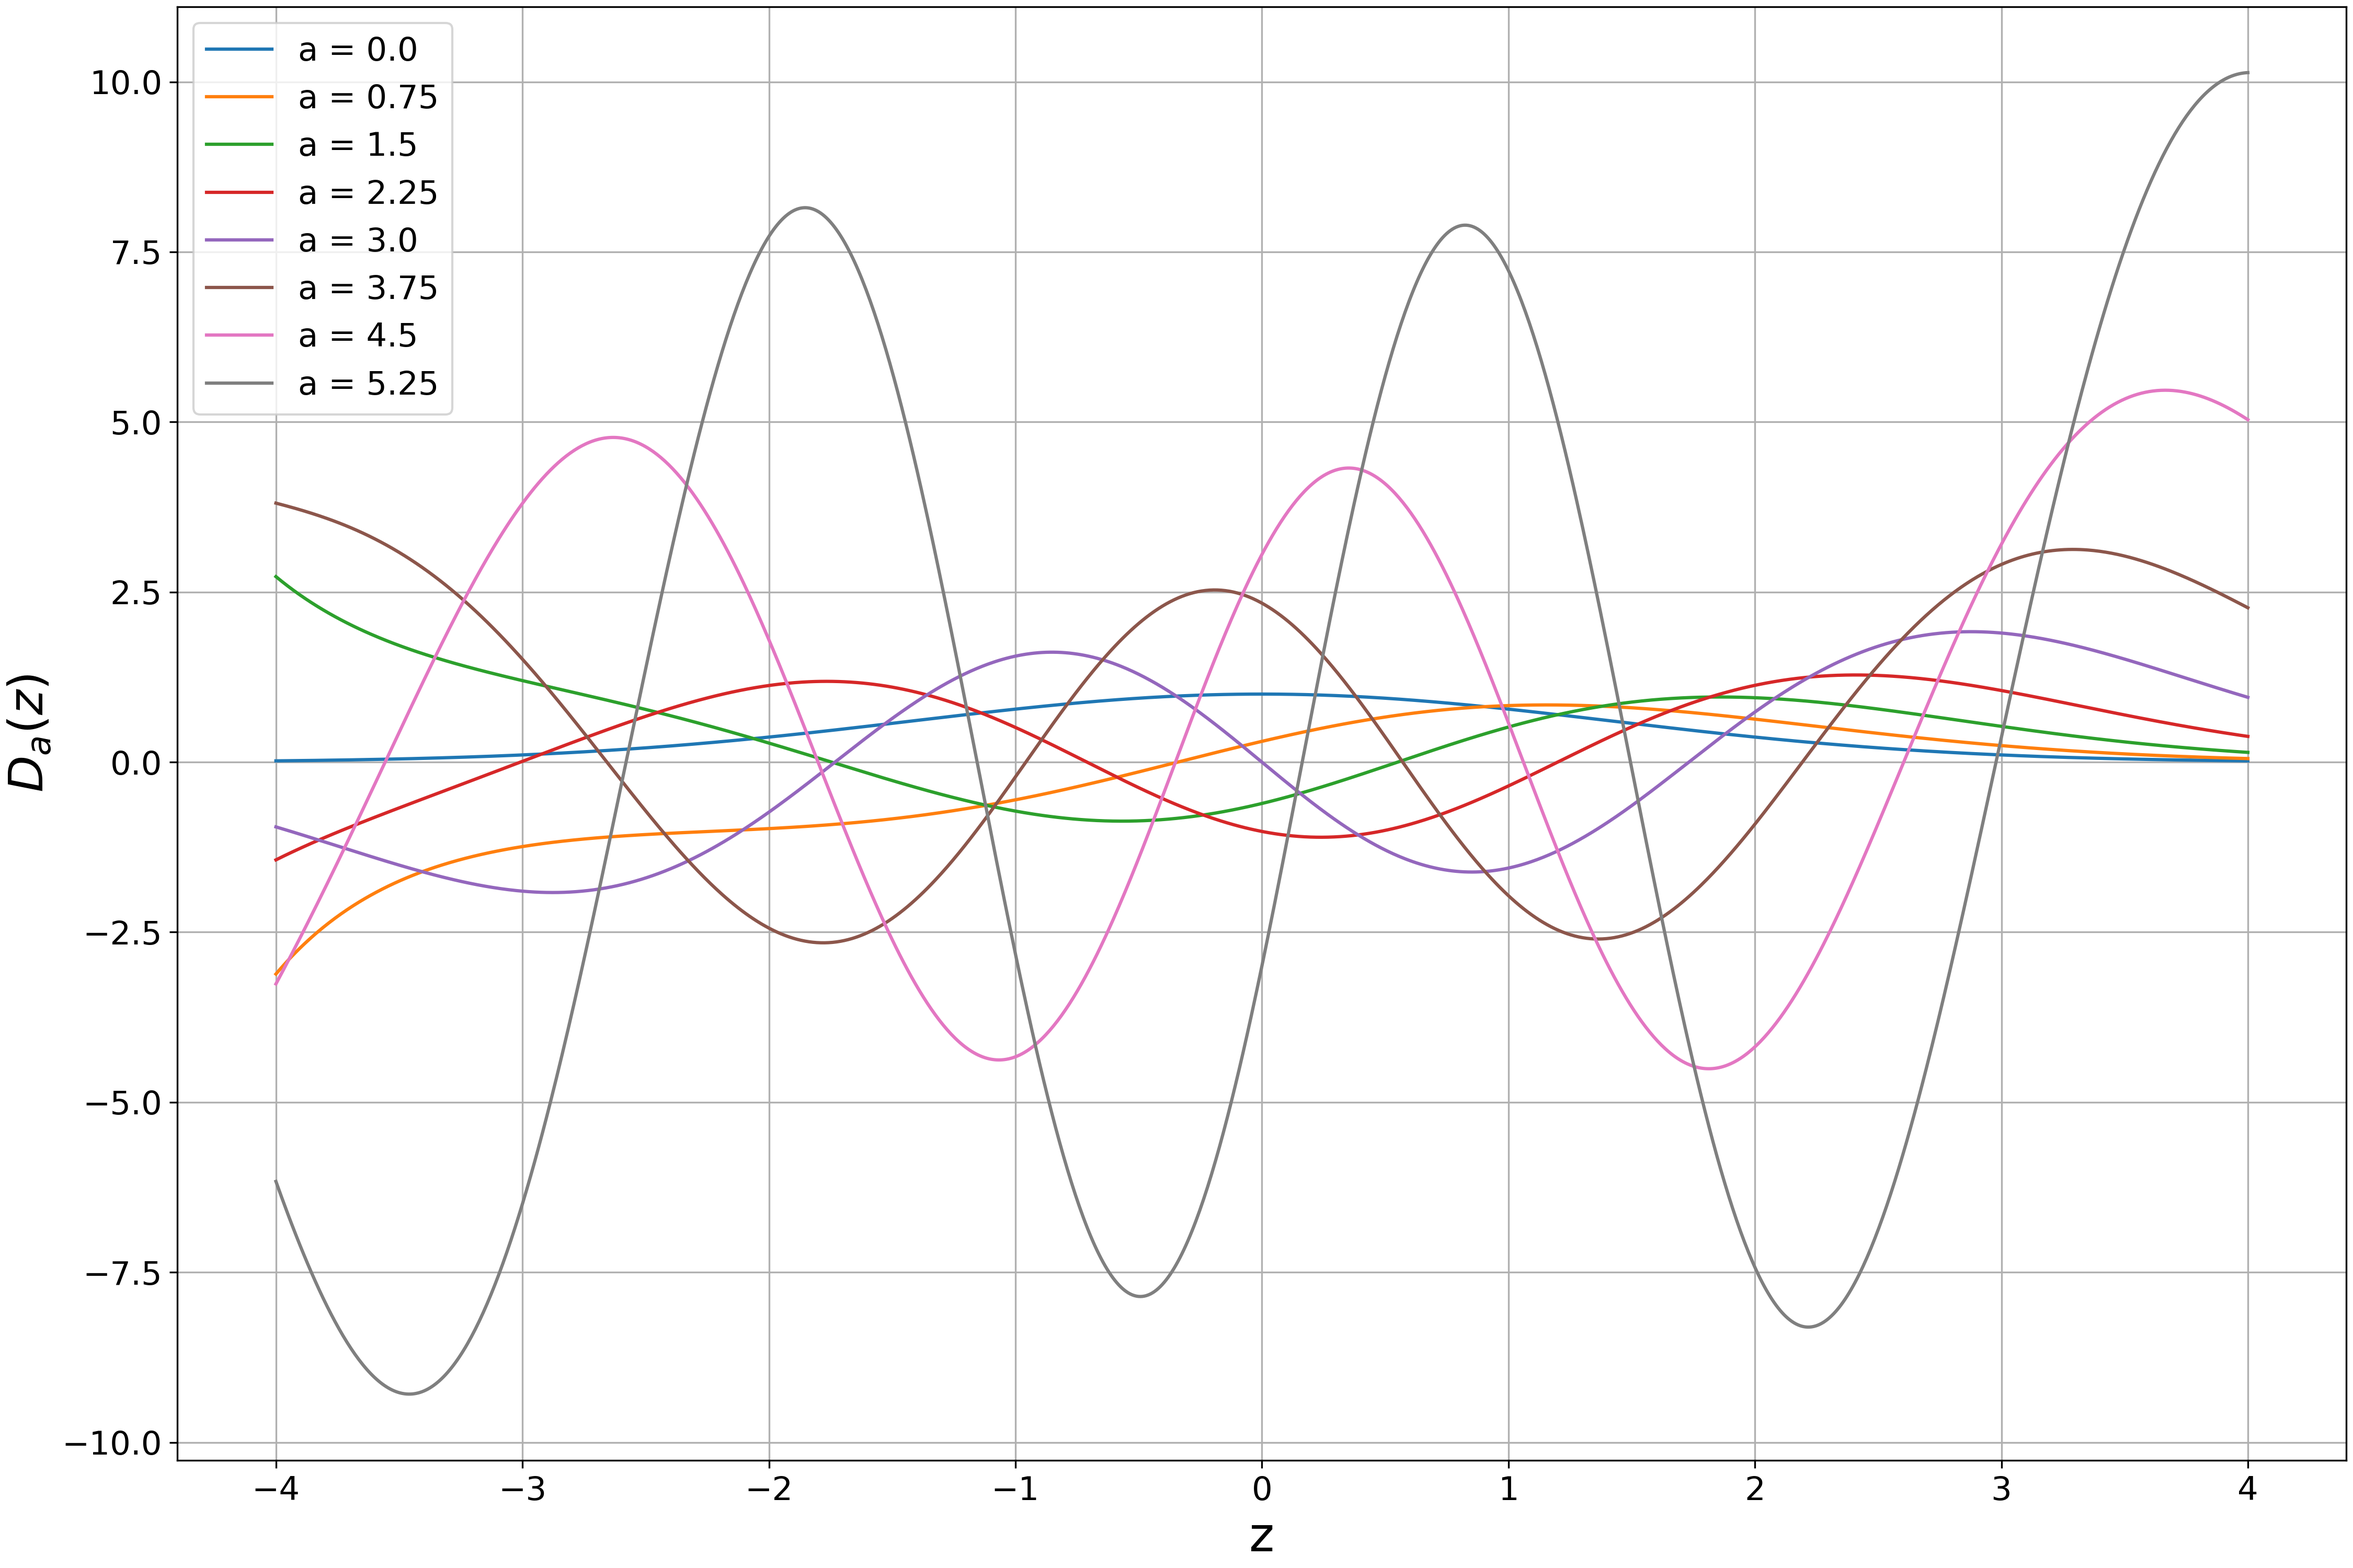
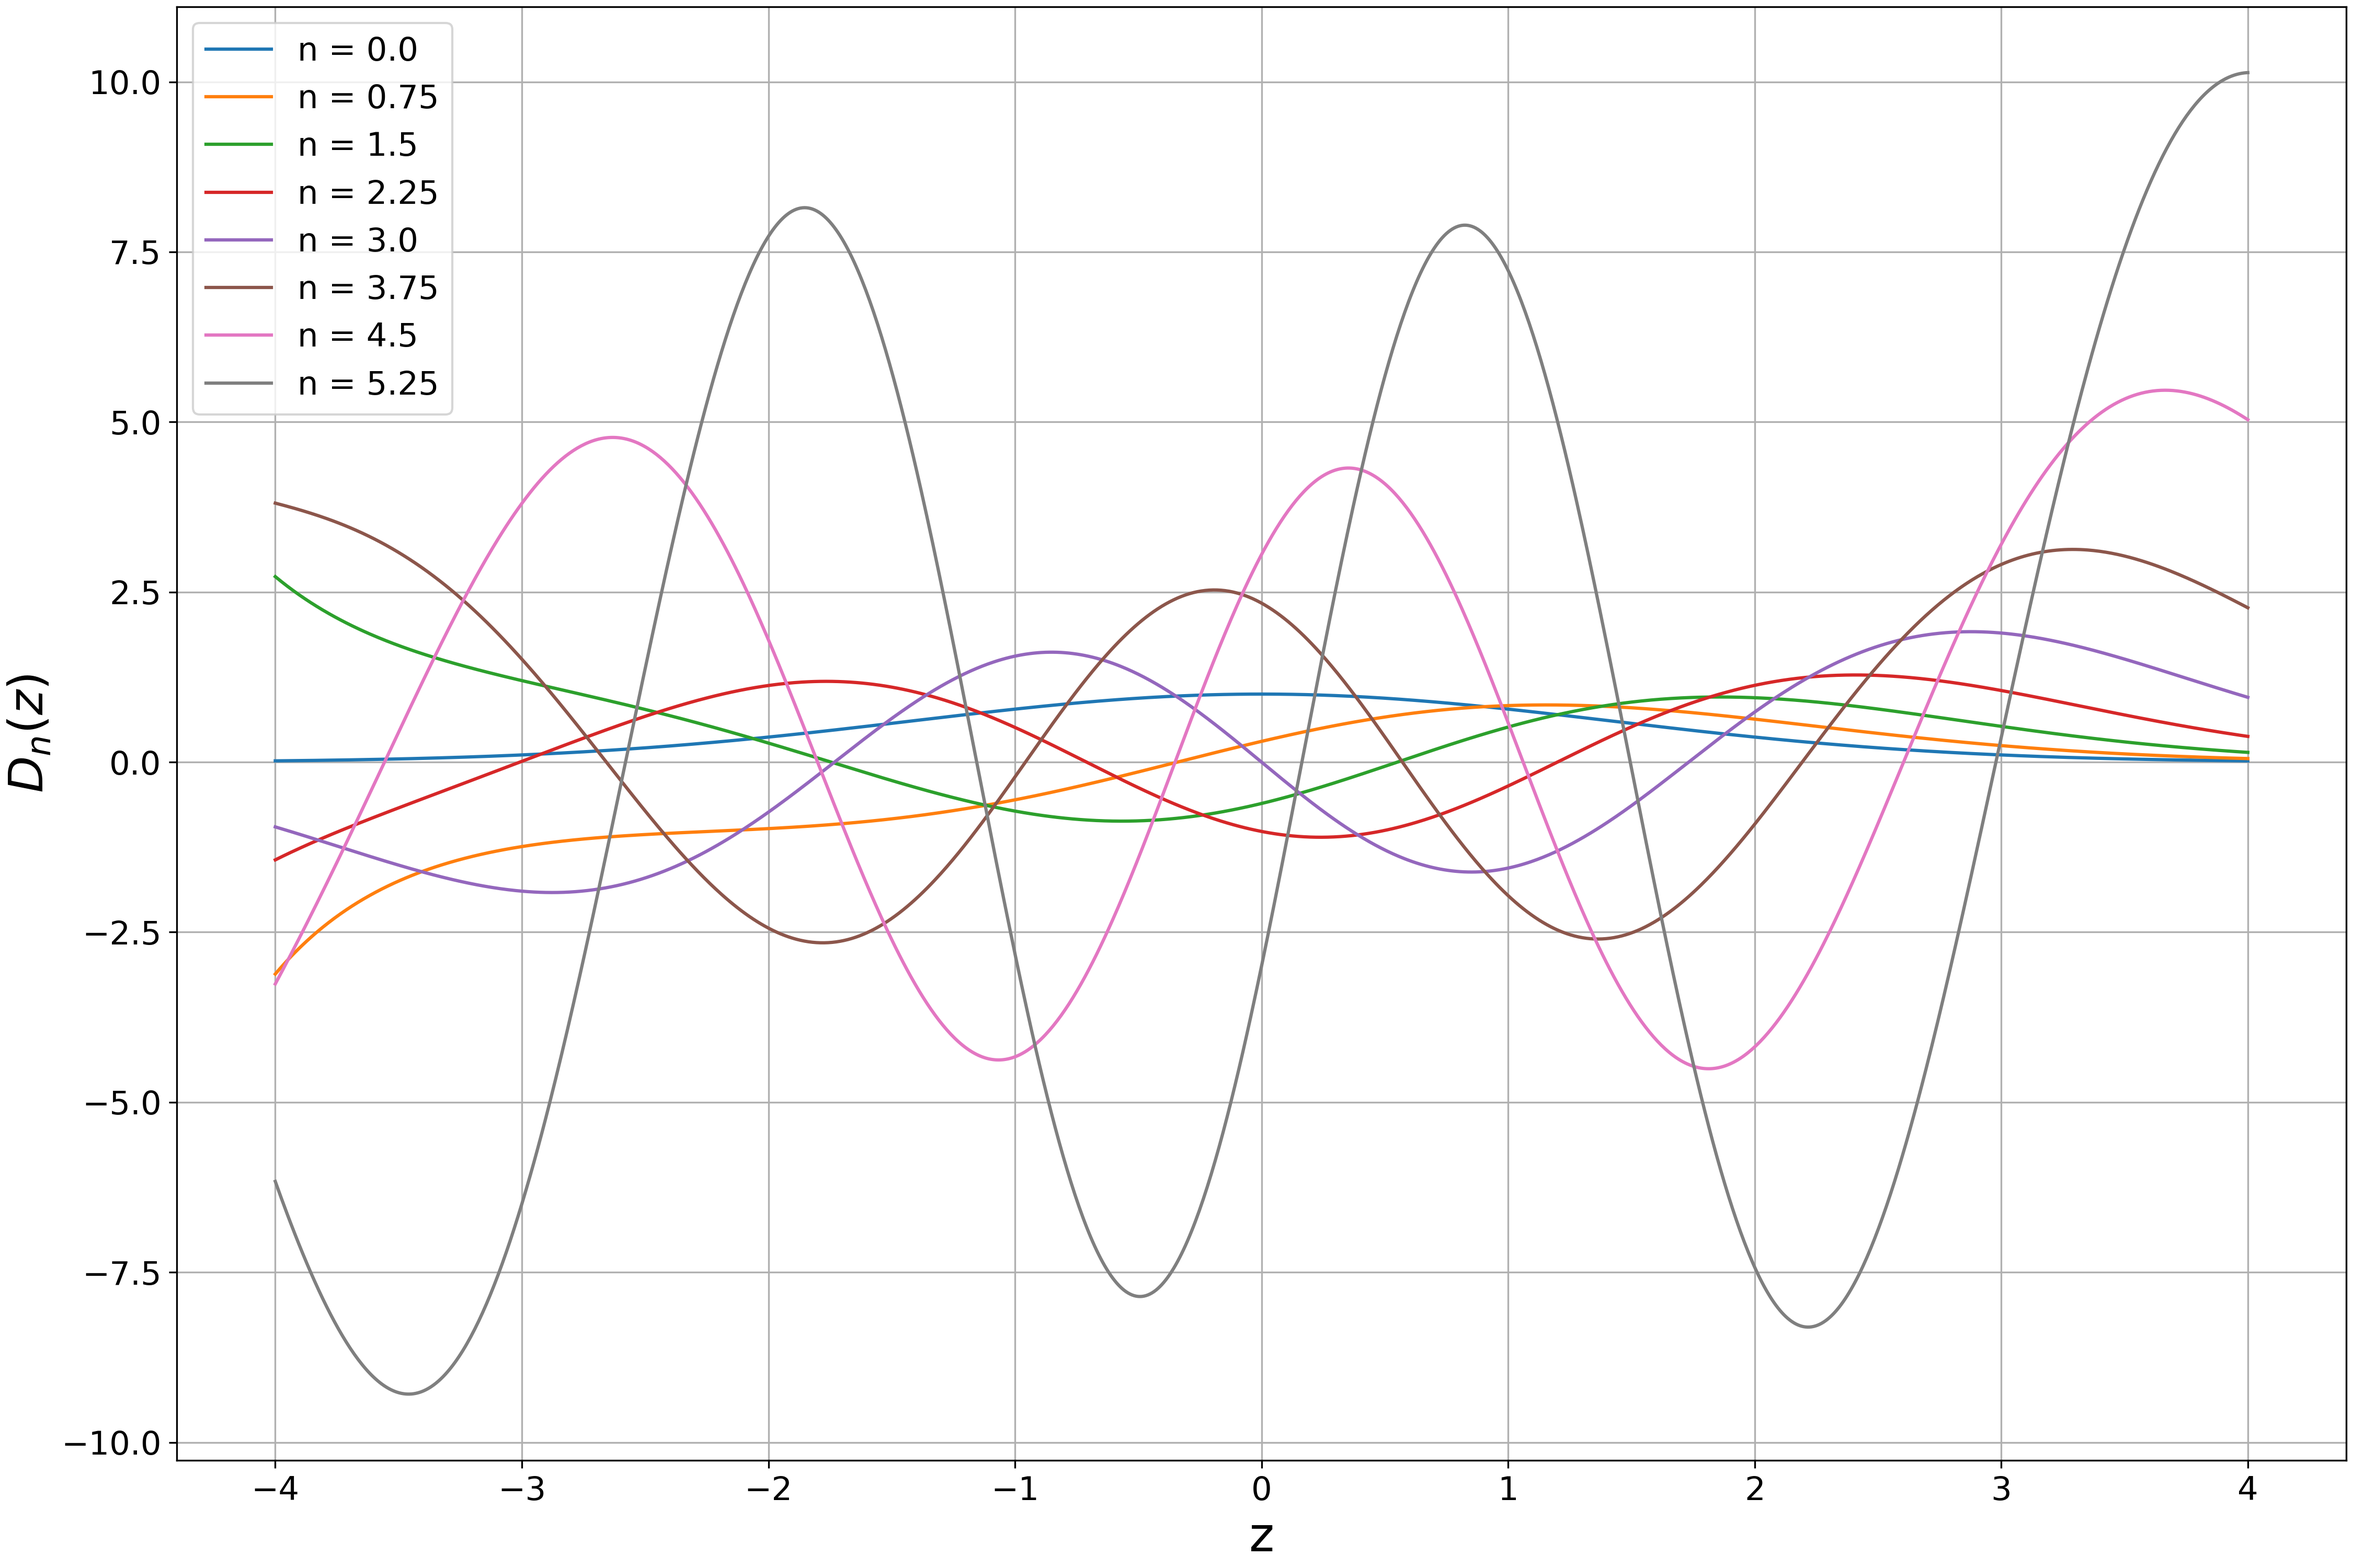
nöd ganz

diff --git a/buch/papers/parzyl/teil3.tex b/buch/papers/parzyl/teil3.tex
@@ -9,41 +9,45 @@
 
 \subsection{Potenzreihenentwicklung
 	\label{parzyl:potenz}}
-Die parabolischen Zylinderfunktionen, welche in Gleichung \ref{parzyl:eq:solution_dgl} gegeben sind, können auch als Potenzreihen geschrieben werden
+%Die parabolischen Zylinderfunktionen, welche in Gleichung \ref{parzyl:eq:solution_dgl} gegeben sind, 
+%können auch als Potenzreihen geschrieben werden
+Die parabolischen Zylinderfunktionen können auch als Potenzreihen geschrieben werden.
+Im folgenden Abschnitt werden die Terme welche nur von $n$ oder $a$ abhängig sind vernachlässigt.
+Die parabolischen Zylinderfunktionen sind Linearkombinationen aus einem geraden Teil $w_1(\alpha, z)$ 
+und einem ungeraden Teil $w_2(\alpha, z)$, welche als Potenzreihe
 \begin{align}
-	w_1(k,z)
+	w_1(\alpha,z)
 	&=  
 	e^{-z^2/4} \,
 	{}_{1} F_{1}
 	(
-	{\textstyle \frac{1}{4}} 
-	- k, {\textstyle \frac{1}{2}} ; {\textstyle \frac{1}{2}}z^2) 
+	\alpha, {\textstyle \frac{1}{2}} ; {\textstyle \frac{1}{2}}z^2) 
 	= 
 	e^{-\frac{z^2}{4}}
 	\sum^{\infty}_{n=0}
-	\frac{\left ( \frac{1}{4} - k \right )_{n}}{\left ( \frac{1}{2}\right )_{n}}
+	\frac{\left ( \alpha \right )_{n}}{\left ( \frac{1}{2}\right )_{n}}
 	\frac{\left ( \frac{1}{2} z^2\right )^n}{n!} \\
 	&=
 	e^{-\frac{z^2}{4}}
 	\left ( 
 	1 
 	+
-	\left ( \frac{1}{2} - 2k \right )\frac{z^2}{2!}
+	\left ( 2\alpha \right )\frac{z^2}{2!}
 	+
-	\left ( \frac{1}{2} - 2k \right )\left ( \frac{5}{2} - 2k \right )\frac{z^4}{4!}  
+	\left ( 2\alpha \right )\left ( 2 + 2\alpha \right )\frac{z^4}{4!}  
 	+
 	\dots
 	\right )
 \end{align}
 und
 \begin{align}
-	w_2(k,z)
+	w_2(\alpha,z)
 	&=  
 	ze^{-z^2/4} \,
 	{}_{1} F_{1}
 	(
-	{\textstyle \frac{3}{4}} 
-	- k, {\textstyle \frac{3}{2}} ; {\textstyle \frac{1}{2}}z^2) 
+	{\textstyle \frac{1}{2}} 
+	+ \alpha, {\textstyle \frac{3}{2}} ; {\textstyle \frac{1}{2}}z^2) 
 	= 
 	ze^{-\frac{z^2}{4}}
 	\sum^{\infty}_{n=0}
@@ -54,20 +58,23 @@ und
 	\left ( 
 	z 
 	+
-	\left ( \frac{3}{2} - 2k \right )\frac{z^3}{3!}
+	\left ( 1 + 2\alpha \right )\frac{z^3}{3!}
 	+
-	\left ( \frac{3}{2} - 2k \right )\left ( \frac{7}{2} - 2k \right )\frac{z^5}{5!}  
+	\left ( 1 + 2\alpha \right )\left ( 3 + 2\alpha \right )\frac{z^5}{5!}  
 	+
 	\dots
 	\right ).
 \end{align}
-Bei den Potenzreihen sieht man gut, dass die Ordnung des Polynoms im generellen ins unendliche geht. Es gibt allerdings die Möglichkeit für bestimmte k das die Terme in der Klammer gleich null werden und das Polynom somit eine endliche Ordnung $n$ hat. Dies geschieht bei $w_1(k,z)$ falls
+sind.
+Bei den Potenzreihen sieht man gut, dass die Ordnung des Polynoms im generellen ins unendliche geht. 
+Es gibt allerdings die Möglichkeit für bestimmte $\alpha$ das die Terme in der Klammer gleich null werden 
+und das Polynom somit eine endliche Ordnung $n$ hat. Dies geschieht bei $w_1(\alpha,z)$ falls
 \begin{equation}
-	k = \frac{1}{4} + n \qquad n \in \mathbb{N}_0
+	\alpha =  -n \qquad n \in \mathbb{N}_0
 \end{equation}
-und bei $w_2(k,z)$ falls
+und bei $w_2(\alpha,z)$ falls
 \begin{equation}
-	k = \frac{3}{4} + n \qquad n \in \mathbb{N}_0.
+	\alpha = -\frac{1}{2} - n \qquad n \in \mathbb{N}_0.
 \end{equation}
 
 \subsection{Ableitung}

diff --git a/buch/papers/parzyl/teil1.tex b/buch/papers/parzyl/teil1.tex
@@ -112,7 +112,7 @@ Mit $M_{k,m}(z)$ geschrieben resultiert
     D_n(z) = \frac{
             \Gamma \left( {\textstyle \frac{1}{2}}\right) 2^{\frac{1}{2}n + \frac{1}{4}} z^{-\frac{1}{2}}
         }{
-            \Gamma \left( {\textstyle \frac{1}{2}} \right) - {\textstyle \frac{1}{2}} n)
+            \Gamma \left( {\textstyle \frac{1}{2}} - {\textstyle \frac{1}{2}} n \right)
         }
         M_{\frac{1}{2} n + \frac{1}{4}, - \frac{1}{4}} \left(\frac{1}{2}z^2\right)
         +
@@ -127,11 +127,14 @@ In \cite{parzyl:abramowitz-stegun} sind zwei Lösungen $U(a, z)$ und $V(a,z)$
 \begin{align}
     U(a,z) &= 
     \cos\left[\pi \left({\textstyle \frac{1}{4}} + {\textstyle \frac{1}{2}} a\right)\right] Y_1
-    - \sin\left[\pi \left({\textstyle \frac{1}{4}} + {\textstyle \frac{1}{2}} a\right)\right] Y_2 \\
+    - \sin\left[\pi \left({\textstyle \frac{1}{4}} + {\textstyle \frac{1}{2}} a\right)\right] Y_2 
+    \label{parzyl:eq:Uaz}
+    \\
     V(a,z) &= \frac{1}{\Gamma \left({\textstyle \frac{1}{2} - a}\right)} \left\{
     \sin\left[\pi \left({\textstyle \frac{1}{4}} + {\textstyle \frac{1}{2}} a\right)\right] Y_1
     + \cos\left[\pi \left({\textstyle \frac{1}{4}} + {\textstyle \frac{1}{2}} a\right)\right] Y_2
     \right\}
+    \label{parzyl:eq:Vaz}
 \end{align}
 mit
 \begin{align}
@@ -143,9 +146,8 @@ mit
             {}_{1} F_{1}
                 \left({\textstyle \frac{1}{2}}a + {\textstyle \frac{1}{4}}, 
                 {\textstyle \frac{1}{2}} ; 
-                {\textstyle \frac{1}{2}}z^2\right)
-            \\
-    Y_2 &= \frac{1}{\sqrt{\pi}} 
+                {\textstyle \frac{1}{2}}z^2\right)\\
+        Y_2 &= \frac{1}{\sqrt{\pi}} 
             \frac{\Gamma\left({\textstyle \frac{3}{4} - 
             {\textstyle \frac{1}{2}}a}\right)}
             {2^{\frac{1}{2} a - \frac{1}{4}}} 
@@ -167,11 +169,11 @@ ausgedrückt werden
     \left[\sin\left(\pi a\right) D_{-a-1/2}(z) + D_{-a-1/2}(-x)\right].
 \end{align}
 In den Abbildungen \ref{parzyl:fig:dnz} und \ref{parzyl:fig:Vnz} sind 
-die Funktionen $D_a(z)$ und $V(a,z)$ mit verschiedenen Werten für $a$ abgebildet.
+die Funktionen $D_n(z)$ und $V(a,z)$ mit verschiedenen Werten für $a$ abgebildet.
 \begin{figure}
     \centering
     \includegraphics[scale=0.3]{papers/parzyl/img/D_plot.png}
-    \caption{$D_a(z)$ mit unterschiedlichen Werten für $a$.}
+    \caption{$D_n(z)$ mit unterschiedlichen Werten für $n$.}
     \label{parzyl:fig:dnz}
 \end{figure}
 \begin{figure}
